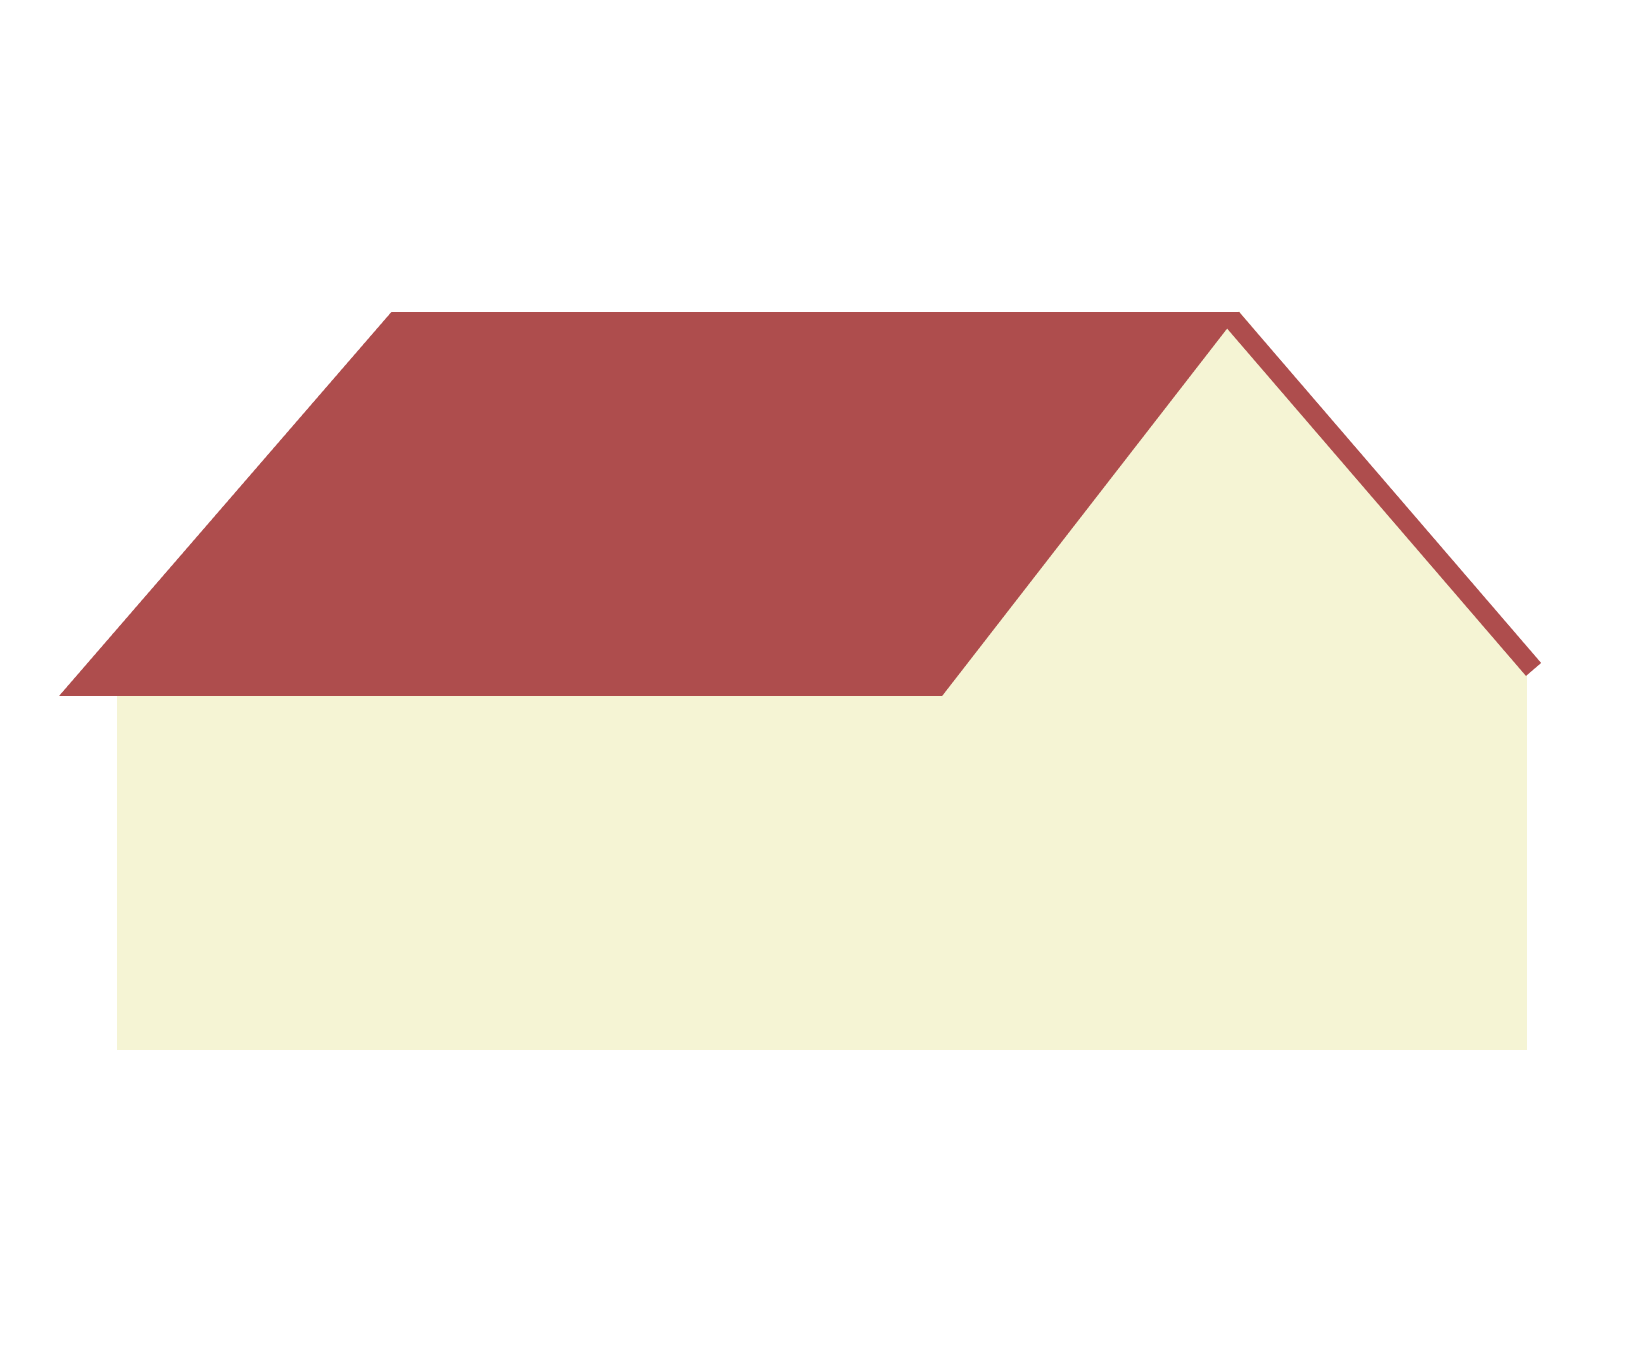
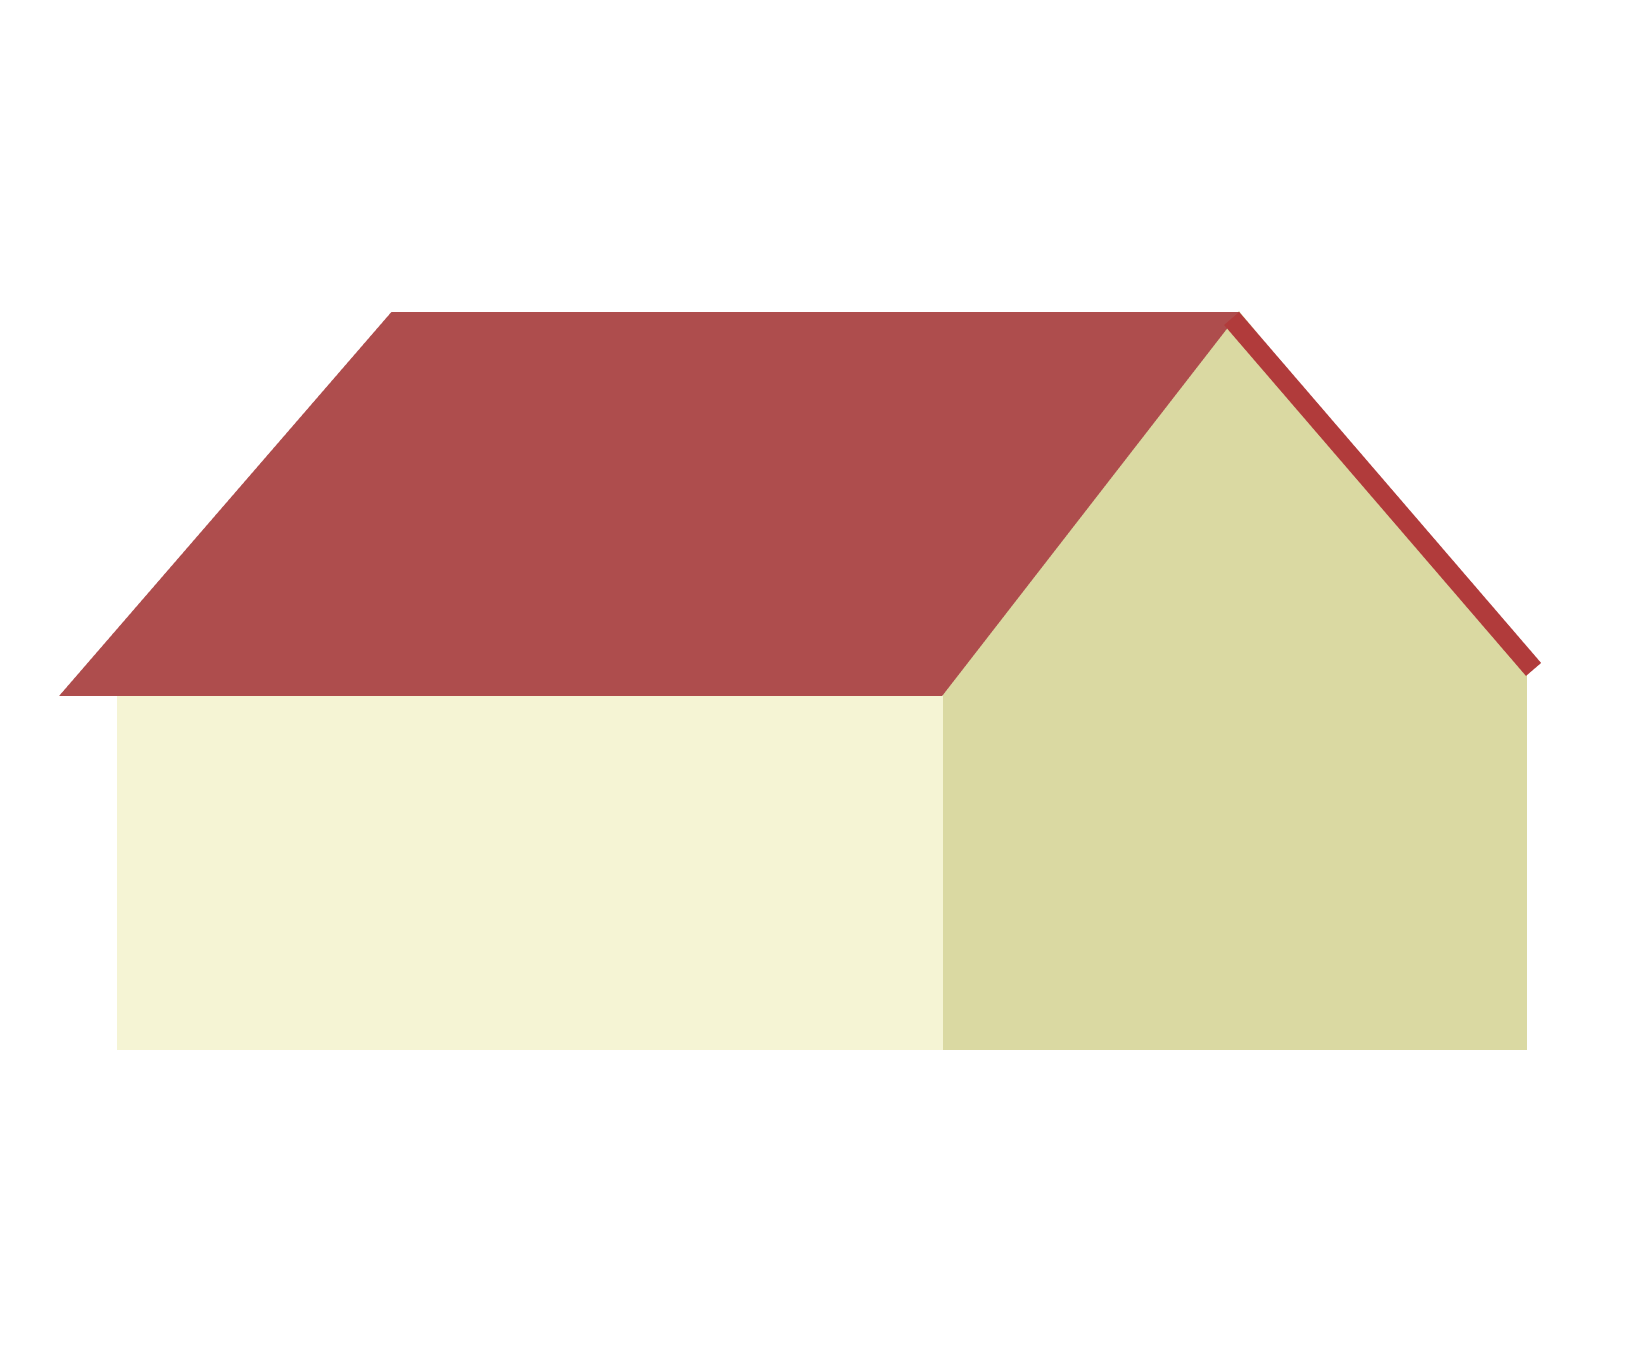
styling the background
Added a new house image and repeating linear gradient on the BG

Changed region(s): [[0.5625, 0.2469, 0.9375, 0.7715]]

diff --git a/style.css b/style.css
@@ -24,6 +24,10 @@
 
 body {
     background: #97C566;
+    background: repeating-linear-gradient(
+            90deg,#A3C672 0px,#A3C672 120px,
+            #9ABD69 120px,#9ABD69 240px
+    );
     font-family: 'Work Sans', sans-serif;
     line-height: 1.5;
     margin: 0;
@@ -421,6 +425,7 @@ footer {
     bottom: 20%;
     right: 12%;
 }
+
 
 /* Colour areas */
 .sound-zone {
